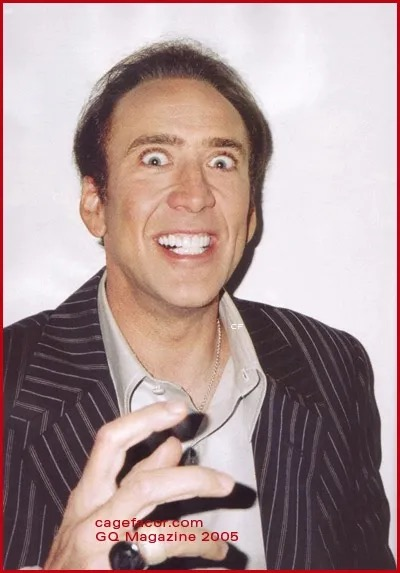
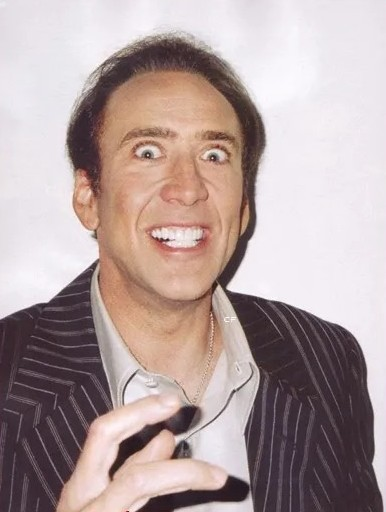
Redesign bulldog as a cute bulldog; equal-size + bouncing About art; clean photo
- Bulldog SVGs redrawn to actually read as bulldogs (wide head, folded rose ears,
  brow wrinkles, droopy jowls, flat muzzle, little underbite teeth) while staying
  cute and animated.
- About page: spokesman photo and bulldog now render at equal size and both bounce.
- Spokesman portraits bounce in the home gallery too.
- Remove the red watermark/border from the cage-2 spokesman photo (cropped).

diff --git a/frontend/src/index.css b/frontend/src/index.css
@@ -1072,18 +1072,40 @@ h3 {
   position: relative;
   z-index: 1;
 }
+@keyframes softbounce {
+  0%, 100% { transform: translateY(0); }
+  50% { transform: translateY(-10px); }
+}
+
 .about-hero {
-  display: flex;
-  align-items: flex-end;
+  display: grid;
+  grid-template-columns: 1fr 1fr;
   gap: 1rem;
-  margin: 1rem 0 1.5rem;
+  align-items: center;
+  max-width: 540px;
+  margin: 1.25rem 0 1.75rem;
 }
-.about-hero > img:first-child {
-  width: min(260px, 60%);
+.about-hero img {
+  width: 100%;
+  aspect-ratio: 1 / 1;
+  object-fit: cover;
   border-radius: 18px;
+  background: #fff;
   box-shadow: var(--shadow-3d);
-  transform: rotate(-2deg);
 }
+.about-hero img:first-child {
+  animation: softbounce 2.8s ease-in-out infinite;
+}
+.about-hero img:last-child {
+  animation: softbounce 2.8s ease-in-out infinite 0.35s;
+}
+
+/* let the spokesman portraits bounce in the gallery too */
+.spokes-photo > img:first-child {
+  animation: softbounce 3.2s ease-in-out infinite;
+}
+.spokes-card:nth-child(2) .spokes-photo > img:first-child { animation-delay: 0.3s; }
+.spokes-card:nth-child(3) .spokes-photo > img:first-child { animation-delay: 0.6s; }
 
 .hero-art img {
   object-fit: cover;

diff --git a/frontend/src/pages/About.tsx b/frontend/src/pages/About.tsx
@@ -8,7 +8,7 @@ export default function About() {
 
       <div className="about-hero">
         <img src="/art/cage-2.jpg" alt="Picolas Page, Campus Customs spokesman" />
-        <img className="bulldog-float" src="/art/bulldog-2.svg" alt="Yale bulldog in a sweater" />
+        <img src="/art/bulldog-2.svg" alt="Yale bulldog in a sweater" />
       </div>
 
       <p>
